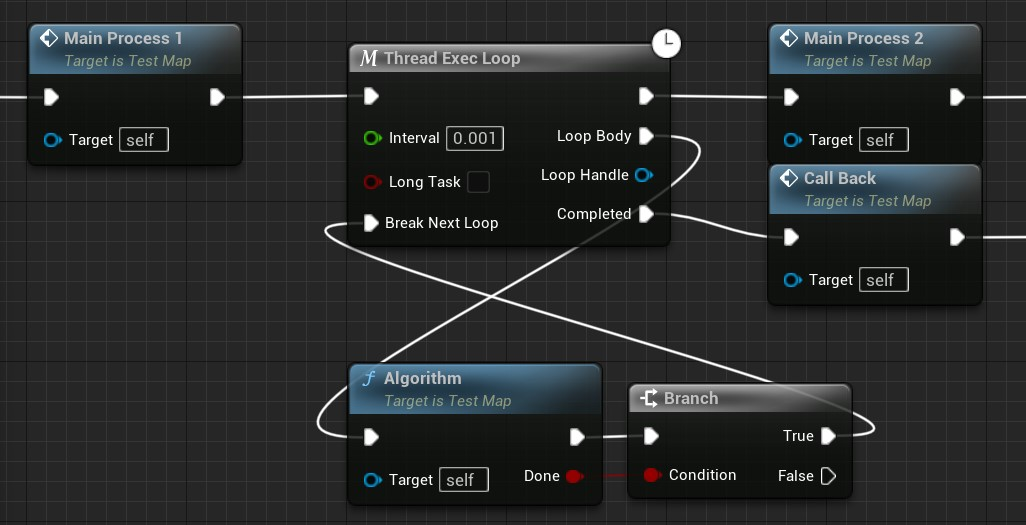
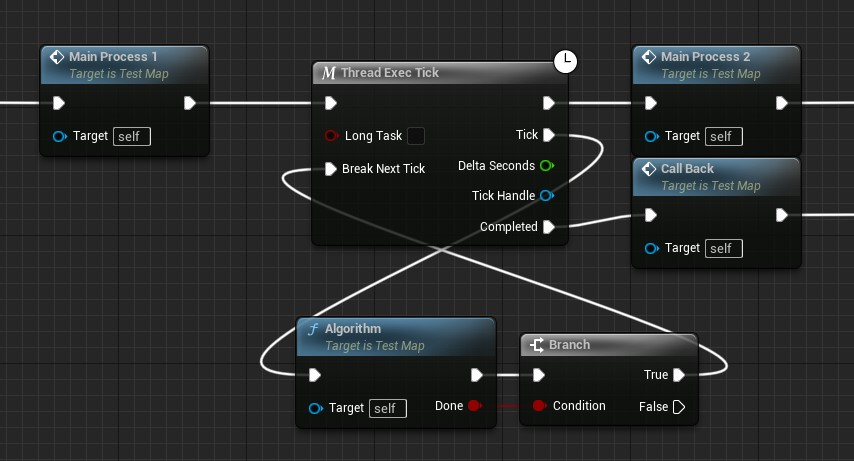
ThreadExecutionBlueprintNode v0.9

Changed region(s): [[0.0, 0.0304, 1.0, 0.9718], [0.8829, 0.4252, 1.0, 0.577]]

diff --git a/docs/English Document/ThreadExecutionBlueprintNode_en.md b/docs/English Document/ThreadExecutionBlueprintNode_en.md
@@ -2,12 +2,11 @@
 sort: 2
 ---
 
-# ThreadExecutionBlueprintNode v0.8 pre
+# ThreadExecutionBlueprintNode v0.9
 
-- The 0.8 preview release is only intended as a preparation release for new features, with changes such as
-  - Fixes for some bugs in version 0.7.
-  - New features have been added, but these features are not stable for now. Only what is shown in this document is available. If you use features that are not included in the documentation, this plugin does not currently provide all support. Until a stable version 0.8 is released.
-  - Rename old nodes. Please check your blueprints and make replacements.
+- Changes in version 0.9 compared to version 0.8:
+  - Temporarily deprecate Thread Exec Loop-related nodes
+  - Improved the stability of asynchronous execution nodes. The execution timing of all asynchronous nodes is now aligned with the Tick gap of Actor. That is, asynchronous execution is not executed at times other than Actor's Tick. This ensures that there are generally no errors when executing Actor-related operations through the asynchronous execution node (note: errors may still occur when executing other parts of the function, but stability has been improved)
 
 ## Plugin Introduction
 
@@ -68,7 +67,7 @@ A simple use case is as follows. MainProcess1 is the pre-process, MainProcess2 i
 
 - This is a macro that wraps ThreadExecOnce. The basic function is the same as it. The difference is that when this has already been executed once and the thread task is running, executing the node again will be blocked so that no new thread task is created. It can only be executed again when the original thread task is completed.
 
-## ThreadExecLoop
+## ThreadExecLoop(Deprecated in v0.9)
 
 ### Main Nodes
 
@@ -111,24 +110,24 @@ Example.
 
 - This node is used in other threads to execute once with each Tick of the game. This is a special kind of loop whose loop body is executed at each Tick. When the task ends early it does not go directly to the next loop, but waits for the next Tick to initiate execution.
 
-| Node Pins      | Description                                                  |
-| -------------- | ------------------------------------------------------------ |
-| TickEnabled    | The value of TickEnabled at the beginning of the Tick thread. If it is true, the Tick is executed immediately after the node; if it is false, the Tick is not executed until the end or the value of its TickEnabled is true. |
-| TcikWhenPaused | Whether to execute Tick when the game is paused              |
-| Tick           | Pins executed at each tick                                   |
-| Completed      | Pin executed when Tick execution jumps out                   |
-| DeltaSeconds   | Parameters for Tick pin execution. is the delta time of the current Tick |
-| TickHandle     | TickHandle is the handle to this tick. This handle allows you to control the execution of the tick |
+| Node Pins                          | Description                                                  |
+| ---------------------------------- | ------------------------------------------------------------ |
+| TickEnabled(Deprecated in v0.9)    | The value of TickEnabled at the beginning of the Tick thread. If it is true, the Tick is executed immediately after the node; if it is false, the Tick is not executed until the end or the value of its TickEnabled is true. |
+| TcikWhenPaused(Deprecated in v0.9) | Whether to execute Tick when the game is paused              |
+| Tick                               | Pins executed at each tick                                   |
+| Completed                          | Pin executed when Tick execution jumps out                   |
+| DeltaSeconds                       | Parameters for Tick pin execution. is the delta time of the current Tick |
+| TickHandle                         | TickHandle is the handle to this tick. This handle allows you to control the execution of the tick |
 
 ### Helper Functions
 
-| Name                  | Graph                                                        | Description                                                  |
-| --------------------- | ------------------------------------------------------------ | ------------------------------------------------------------ |
-| BreakNextTick         | ![](../resource/ThreadExecutionBlueprintNode/屏幕截图 2022-12-13 162222.jpg) | Break the execution of the next Tick and jump out            |
-| IsTickable            | ![](../resource/ThreadExecutionBlueprintNode/屏幕截图 2022-12-13 162232.jpg) | Get the Tickable value of a Tick thread                      |
-| SetTickable           | ![](../resource/ThreadExecutionBlueprintNode/屏幕截图 2022-12-13 162243.jpg) | Sets the Tickable value of a Tick thread. If set to true, the Tick is executed. if set to false, the Tick is not executed and does not jump out. Can be reset to true in the future to continue executing Tick |
-| IsTickableWhenPaused  | ![](../resource/ThreadExecutionBlueprintNode/屏幕截图 2022-12-13 162253.jpg) | Get the TickableWhenPaused value of a Tick thread            |
-| SetTickableWhenPaused | ![](../resource/ThreadExecutionBlueprintNode/屏幕截图 2022-12-13 162302.jpg) | Set the value of whether the Tick can be executed when the game is paused |
+| Name                                      | Graph                                                        | Description                                                  |
+| ----------------------------------------- | ------------------------------------------------------------ | ------------------------------------------------------------ |
+| BreakNextTick                             | ![](../resource/ThreadExecutionBlueprintNode/屏幕截图 2022-12-13 162222.jpg) | Break the execution of the next Tick and jump out            |
+| IsTickable(Deprecated in v0.9)            | ![](../resource/ThreadExecutionBlueprintNode/屏幕截图 2022-12-13 162232.jpg) | Get the Tickable value of a Tick thread                      |
+| SetTickable(Deprecated in v0.9)           | ![](../resource/ThreadExecutionBlueprintNode/屏幕截图 2022-12-13 162243.jpg) | Sets the Tickable value of a Tick thread. If set to true, the Tick is executed. if set to false, the Tick is not executed and does not jump out. Can be reset to true in the future to continue executing Tick |
+| IsTickableWhenPaused(Deprecated in v0.9)  | ![](../resource/ThreadExecutionBlueprintNode/屏幕截图 2022-12-13 162253.jpg) | Get the TickableWhenPaused value of a Tick thread            |
+| SetTickableWhenPaused(Deprecated in v0.9) | ![](../resource/ThreadExecutionBlueprintNode/屏幕截图 2022-12-13 162302.jpg) | Set the value of whether the Tick can be executed when the game is paused |
 
 ### Macros
 
@@ -140,13 +139,13 @@ Example.
 
 ### Utilities
 
-| Name                 | Graph                                                        | Description                                                  |
-| -------------------- | ------------------------------------------------------------ | ------------------------------------------------------------ |
-| GetCurrentThreadID   | ![](../resource/ThreadExecutionBlueprintNode/屏幕截图 2022-12-13 162326.jpg) | Get the thread ID of the thread executing the node           |
-| GetCurrentThreadName | ![](../resource/ThreadExecutionBlueprintNode/屏幕截图 2022-12-13 162333.jpg) | Get the name of the thread executing the node                |
-| IsGameThread         | ![](../resource/ThreadExecutionBlueprintNode/屏幕截图 2022-12-13 162343.jpg) | Gets the value of whether the thread executing the node is a game thread |
-| IsGameThread         | ![](../resource/ThreadExecutionBlueprintNode/屏幕截图 2022-12-13 162350.jpg) | A branching option. The condition is whether the thread executing the node is a game thread |
-| ThreadWait           | ![](../resource/ThreadExecutionBlueprintNode/屏幕截图 2022-12-13 162400.jpg) | Thread waiting. Can only be used for non-game threads. Used to wait for a certain amount of time in other threads. If the node is executed in the game thread it will not make the game thread wait. |
+| Name                           | Graph                                                        | Description                                                  |
+| ------------------------------ | ------------------------------------------------------------ | ------------------------------------------------------------ |
+| GetCurrentThreadID             | ![](../resource/ThreadExecutionBlueprintNode/屏幕截图 2022-12-13 162326.jpg) | Get the thread ID of the thread executing the node           |
+| GetCurrentThreadName           | ![](../resource/ThreadExecutionBlueprintNode/屏幕截图 2022-12-13 162333.jpg) | Get the name of the thread executing the node                |
+| IsGameThread                   | ![](../resource/ThreadExecutionBlueprintNode/屏幕截图 2022-12-13 162343.jpg) | Gets the value of whether the thread executing the node is a game thread |
+| IsGameThread                   | ![](../resource/ThreadExecutionBlueprintNode/屏幕截图 2022-12-13 162350.jpg) | A branching option. The condition is whether the thread executing the node is a game thread |
+| ThreadWait(Deprecated in v0.9) | ![](../resource/ThreadExecutionBlueprintNode/屏幕截图 2022-12-13 162400.jpg) | Thread waiting. Can only be used for non-game threads. Used to wait for a certain amount of time in other threads. If the node is executed in the game thread it will not make the game thread wait. |
 
 ------
 
@@ -158,9 +157,9 @@ This subsystem is designed to provide global information about thread nodes, and
 
 - Callable functions
 
-| Name                      | Graph                                                        | Description                                                  |
-| ------------------------- | ------------------------------------------------------------ | ------------------------------------------------------------ |
-| Get All Thread Exec Nodes | ![](../resource/ThreadExecutionBlueprintNode/屏幕截图 2022-12-25 152201.jpg)c | Gets all thread execution nodes, returning an array with elements of type ThreadAsyncExecBase reference. The current version of this type of reference has few functions that can be called. |
-| Get All Thread Exec Onces | ![](../resource/ThreadExecutionBlueprintNode/屏幕截图 2022-12-25 152217.jpg) | Gets all thread execution once nodes, returning an array with elements of type ThreadAsyncExecOnce reference. |
-| Get All Thread Exec Loops | ![](../resource/ThreadExecutionBlueprintNode/屏幕截图 2022-12-25 152227.jpg) | Gets all threads executing a node once, returning an array with elements of type ThreadAsyncExecLoop reference. |
-| Get All Thread Exec Ticks | ![](../resource/ThreadExecutionBlueprintNode/屏幕截图 2022-12-25 152237.jpg) | Gets all thread execution once nodes, returning an array with elements of type ThreadAsyncExecTick reference. |
+| Name                                          | Graph                                                        | Description                                                  |
+| --------------------------------------------- | ------------------------------------------------------------ | ------------------------------------------------------------ |
+| Get All Thread Exec Nodes                     | ![](../resource/ThreadExecutionBlueprintNode/屏幕截图 2022-12-25 152201.jpg)c | Gets all thread execution nodes, returning an array with elements of type ThreadAsyncExecBase reference. The current version of this type of reference has few functions that can be called. |
+| Get All Thread Exec Onces                     | ![](../resource/ThreadExecutionBlueprintNode/屏幕截图 2022-12-25 152217.jpg) | Gets all thread execution once nodes, returning an array with elements of type ThreadAsyncExecOnce reference. |
+| Get All Thread Exec Loops(Deprecated in v0.9) | ![](../resource/ThreadExecutionBlueprintNode/屏幕截图 2022-12-25 152227.jpg) | Gets all threads executing a node once, returning an array with elements of type ThreadAsyncExecLoop reference. |
+| Get All Thread Exec Ticks                     | ![](../resource/ThreadExecutionBlueprintNode/屏幕截图 2022-12-25 152237.jpg) | Gets all thread execution once nodes, returning an array with elements of type ThreadAsyncExecTick reference. |

diff --git a/docs/Chinese Document/ThreadExecutionBlueprintNode_cn.md b/docs/Chinese Document/ThreadExecutionBlueprintNode_cn.md
@@ -2,15 +2,13 @@
 sort: 2
 ---
 
-# 线程执行蓝图节点 v0.8 pre
+# 线程执行蓝图节点 v0.9
 
-- 0.8预览版仅作为新增功能的准备版本，其变动项有：
+- 版本0.9相比版本0.8的改动项：
 
-  - 对0.7版本的一些bug的修复。
-
-  - 新增新的功能，但这些功能暂时不稳定，请勿使用。仅该文档所展示的内容是可以用的。如果你使用了文档不包含的功能，本插件当前不提供一切支持。直到0.8稳定版本发布。
-
-  - 对旧的节点重命名。请检查你的蓝图，并进行替换。
+  - 暂时将Thread Exec Loop相关的节点置为废弃
+  
+  - 改进了异步执行节点的稳定性。目前所有的异步节点的执行时机和Actor的Tick间隙保持一致。即异步执行不会在Actor的Tick之外的时间执行。这保证了通过异步执行节点去执行有关Actor的操作时一般不会产生报错（注：在执行其他部分函数时仍可能产生报错，但稳定性已有提升）
 
 ## 插件简介
 
@@ -73,7 +71,7 @@ sort: 2
 
 - 这个宏对ThreadExecOnce进行了封装。基本的功能和原本的一致。不同之处在于：当原本的线程任务正在执行时再一次执行了该节点并不会创建新的线程任务，而是直接无视，只有当原先的线程任务执行完成后此节点可再次使用。
 
-## ThreadExecLoop
+## ThreadExecLoop(v0.9已废弃)
 
 ### 主要节点
 
@@ -116,24 +114,24 @@ sort: 2
 
 - 该节点用于在其他线程中当每一Tick开始时执行一次。这是一种特殊的循环，它只会在每一Tick执行一次。当当前的Tick任务提前完成时，且尚未进入下一个Tick，则该线程会等待。直到进入下一个Tick后再执行一次Tick引脚
 
-| 节点引脚       | 描述                                                         |
-| -------------- | ------------------------------------------------------------ |
-| TickEnabled    | 是否默认执行Tick，如果为true，创建线程后执行Tick。如果为false，则创建线程后不会执行Tick，直到该值为真。 |
-| TcikWhenPaused | 是否在游戏暂停时执行Tick                                     |
-| Tick           | 每一Tick执行的引脚                                           |
-| Completed      | Tick跳出时执行的引脚                                         |
-| DeltaSeconds   | Tick引脚附带的参数。表示当前Tick的变化时间。                 |
-| TickHandle     | TickHandle是这个线程Tick的对象引用。用于对该线程Tick进行控制。 |
+| 节点引脚                   | 描述                                                         |
+| -------------------------- | ------------------------------------------------------------ |
+| TickEnabled(v0.9已废弃)    | 是否默认执行Tick，如果为true，创建线程后执行Tick。如果为false，则创建线程后不会执行Tick，直到该值为真。 |
+| TcikWhenPaused(v0.9已废弃) | 是否在游戏暂停时执行Tick                                     |
+| Tick                       | 每一Tick执行的引脚                                           |
+| Completed                  | Tick跳出时执行的引脚                                         |
+| DeltaSeconds               | Tick引脚附带的参数。表示当前Tick的变化时间。                 |
+| TickHandle                 | TickHandle是这个线程Tick的对象引用。用于对该线程Tick进行控制。 |
 
 ### 辅助函数
 
-| 名称                  | 图示                                                         | 描述                                                         |
-| --------------------- | ------------------------------------------------------------ | ------------------------------------------------------------ |
-| BreakNextTick         | ![](../resource/ThreadExecutionBlueprintNode/屏幕截图 2022-12-13 162222.jpg) | 打断下一次Tick并跳出。                                       |
-| IsTickable            | ![](../resource/ThreadExecutionBlueprintNode/屏幕截图 2022-12-13 162232.jpg) | 获取线程Tick的可否Tick值。                                   |
-| SetTickable           | ![](../resource/ThreadExecutionBlueprintNode/屏幕截图 2022-12-13 162243.jpg) | 设置线程Tick可否Tick值。设置为真后将使其能执行Tick。设置为假后将使其不能被Tick。该值的真假并不影响该线程Tick的生命周期。 |
-| IsTickableWhenPaused  | ![](../resource/ThreadExecutionBlueprintNode/屏幕截图 2022-12-13 162253.jpg) | 获取线程Tick的可否在游戏暂停时Tick的值。                     |
-| SetTickableWhenPaused | ![](../resource/ThreadExecutionBlueprintNode/屏幕截图 2022-12-13 162302.jpg) | 设置线程Tick的可否在游戏暂停时Tick的值。                     |
+| 名称                              | 图示                                                         | 描述                                                         |
+| --------------------------------- | ------------------------------------------------------------ | ------------------------------------------------------------ |
+| BreakNextTick                     | ![](../resource/ThreadExecutionBlueprintNode/屏幕截图 2022-12-13 162222.jpg) | 打断下一次Tick并跳出。                                       |
+| IsTickable(v0.9已废弃)            | ![](../resource/ThreadExecutionBlueprintNode/屏幕截图 2022-12-13 162232.jpg) | 获取线程Tick的可否Tick值。                                   |
+| SetTickable(v0.9已废弃)           | ![](../resource/ThreadExecutionBlueprintNode/屏幕截图 2022-12-13 162243.jpg) | 设置线程Tick可否Tick值。设置为真后将使其能执行Tick。设置为假后将使其不能被Tick。该值的真假并不影响该线程Tick的生命周期。 |
+| IsTickableWhenPaused(v0.9已废弃)  | ![](../resource/ThreadExecutionBlueprintNode/屏幕截图 2022-12-13 162253.jpg) | 获取线程Tick的可否在游戏暂停时Tick的值。                     |
+| SetTickableWhenPaused(v0.9已废弃) | ![](../resource/ThreadExecutionBlueprintNode/屏幕截图 2022-12-13 162302.jpg) | 设置线程Tick的可否在游戏暂停时Tick的值。                     |
 
 ### 蓝图宏
 
@@ -145,13 +143,13 @@ sort: 2
 
 ### 工具集
 
-| 名称                 | 图示                                                         | 描述                                                         |
-| -------------------- | ------------------------------------------------------------ | ------------------------------------------------------------ |
-| GetCurrentThreadID   | ![](../resource/ThreadExecutionBlueprintNode/屏幕截图 2022-12-13 162326.jpg) | 获取执行该节点的线程ID                                       |
-| GetCurrentThreadName | ![](../resource/ThreadExecutionBlueprintNode/屏幕截图 2022-12-13 162333.jpg) | 获取执行该节点的线程名称                                     |
-| IsGameThread         | ![](../resource/ThreadExecutionBlueprintNode/屏幕截图 2022-12-13 162343.jpg) | 获取执行该节点的线程是否为游戏线程                           |
-| IsGameThread         | ![](../resource/ThreadExecutionBlueprintNode/屏幕截图 2022-12-13 162350.jpg) | 一个分支选项。条件是执行该节点的线程是否是游戏线程。         |
-| ThreadWait           | ![](../resource/ThreadExecutionBlueprintNode/屏幕截图 2022-12-13 162400.jpg) | 线程等待，只能用于非游戏线程。一般用于让线程停止运行等待一定时间后再运行。如果该节点被执行于游戏线程中，将不会产生任何效果，会直接跳过。 |
+| 名称                   | 图示                                                         | 描述                                                         |
+| ---------------------- | ------------------------------------------------------------ | ------------------------------------------------------------ |
+| GetCurrentThreadID     | ![](../resource/ThreadExecutionBlueprintNode/屏幕截图 2022-12-13 162326.jpg) | 获取执行该节点的线程ID                                       |
+| GetCurrentThreadName   | ![](../resource/ThreadExecutionBlueprintNode/屏幕截图 2022-12-13 162333.jpg) | 获取执行该节点的线程名称                                     |
+| IsGameThread           | ![](../resource/ThreadExecutionBlueprintNode/屏幕截图 2022-12-13 162343.jpg) | 获取执行该节点的线程是否为游戏线程                           |
+| IsGameThread           | ![](../resource/ThreadExecutionBlueprintNode/屏幕截图 2022-12-13 162350.jpg) | 一个分支选项。条件是执行该节点的线程是否是游戏线程。         |
+| ThreadWait(v0.9已废弃) | ![](../resource/ThreadExecutionBlueprintNode/屏幕截图 2022-12-13 162400.jpg) | 线程等待，只能用于非游戏线程。一般用于让线程停止运行等待一定时间后再运行。如果该节点被执行于游戏线程中，将不会产生任何效果，会直接跳过。 |
 
 ------
 
@@ -163,10 +161,10 @@ sort: 2
 
 - 可调用的函数
 
-| 名称                      | 图示                                                         | 描述                                                         |
-| ------------------------- | ------------------------------------------------------------ | ------------------------------------------------------------ |
-| Get All Thread Exec Nodes | ![](../resource/ThreadExecutionBlueprintNode/屏幕截图 2022-12-25 152201.jpg) | 获取所有的线程执行节点，返回一个元素类型为ThreadAsyncExecBase引用的数组。目前版本该类型的引用没有什么可以调用的函数。 |
-| Get All Thread Exec Onces | ![](../resource/ThreadExecutionBlueprintNode/屏幕截图 2022-12-25 152217.jpg) | 获取所有的线程执行一次节点，返回一个元素类型为ThreadAsyncExecOnce引用的数组。 |
-| Get All Thread Exec Loops | ![](../resource/ThreadExecutionBlueprintNode/屏幕截图 2022-12-25 152227.jpg) | 获取所有的线程执行一次节点，返回一个元素类型为ThreadAsyncExecLoop引用的数组。 |
-| Get All Thread Exec Ticks | ![](../resource/ThreadExecutionBlueprintNode/屏幕截图 2022-12-25 152237.jpg) | 获取所有的线程执行一次节点，返回一个元素类型为ThreadAsyncExecTick引用的数组。 |
+| 名称                                  | 图示                                                         | 描述                                                         |
+| ------------------------------------- | ------------------------------------------------------------ | ------------------------------------------------------------ |
+| Get All Thread Exec Nodes             | ![](../resource/ThreadExecutionBlueprintNode/屏幕截图 2022-12-25 152201.jpg) | 获取所有的线程执行节点，返回一个元素类型为ThreadAsyncExecBase引用的数组。目前版本该类型的引用没有什么可以调用的函数。 |
+| Get All Thread Exec Onces             | ![](../resource/ThreadExecutionBlueprintNode/屏幕截图 2022-12-25 152217.jpg) | 获取所有的线程执行一次节点，返回一个元素类型为ThreadAsyncExecOnce引用的数组。 |
+| Get All Thread Exec Loops(v0.9已废弃) | ![](../resource/ThreadExecutionBlueprintNode/屏幕截图 2022-12-25 152227.jpg) | 获取所有的线程执行一次节点，返回一个元素类型为ThreadAsyncExecLoop引用的数组。 |
+| Get All Thread Exec Ticks             | ![](../resource/ThreadExecutionBlueprintNode/屏幕截图 2022-12-25 152237.jpg) | 获取所有的线程执行一次节点，返回一个元素类型为ThreadAsyncExecTick引用的数组。 |
 
